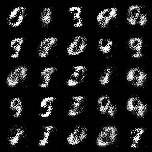
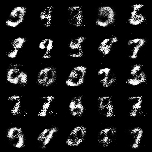
The architecture is now the same architecture as mentionned in the paper and we can use this as our starting point

diff --git a/f_gan.py b/f_gan.py
@@ -82,9 +82,9 @@ class Generator(nn.Module):
         x = [nn.Linear(z_dim, hidden_dim2),
              nn.BatchNorm1d(hidden_dim2),
              nn.ReLU(inplace=True),
-             # nn.Linear(hidden_dim, hidden_dim2),
-             # nn.BatchNorm1d(hidden_dim2),
-             # nn.ReLU(inplace=True),
+             nn.Linear(hidden_dim, hidden_dim2),
+             nn.BatchNorm1d(hidden_dim2),
+             nn.ReLU(inplace=True),
              nn.Linear(hidden_dim2, image_size[0]*image_size[1]*image_size[2])]
 
         self.x = nn.Sequential(*x)
